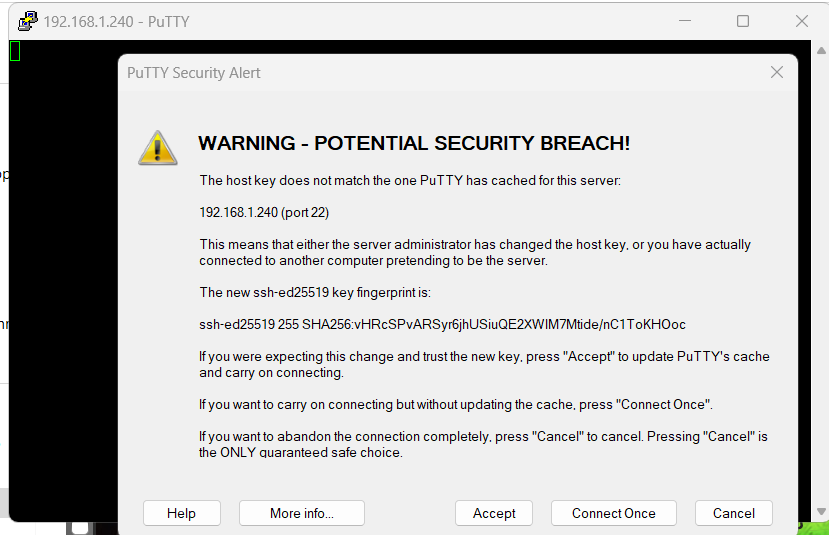
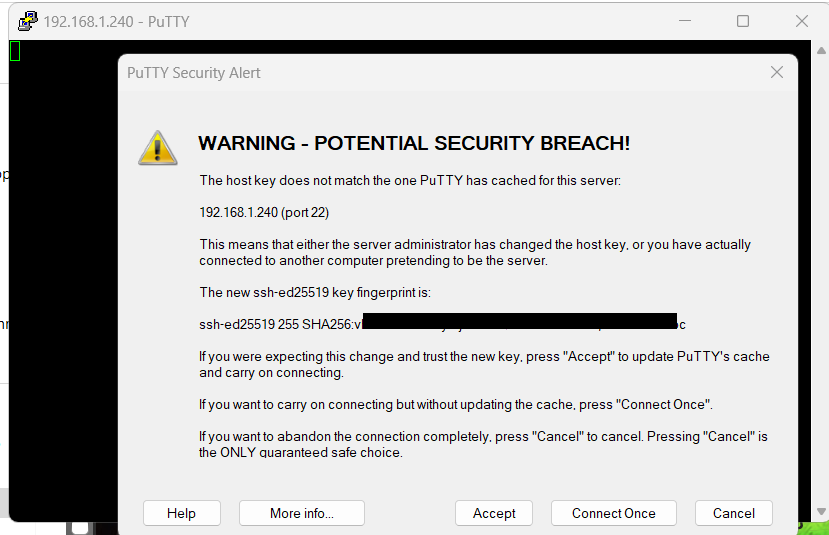
update readme with pi model

Changed region(s): [[0.4222, 0.5682, 0.8142, 0.628]]

diff --git a/README.md b/README.md
@@ -6,6 +6,13 @@ Ubuntu's netplan makes this extremely difficult
 
 ![](images/2026-05-30_07_28_IMG_20260530_072810%20Raspberry%20Pi%204B%20Ubuntu%2024%20Server%20LTS%20Ethernet%20and%20WiFi.jpg)
 
+## Materials
+
+- Fast SD Card
+- SD card burner
+- Raspberry Pi 4B
+- WiFi router
+
 # Raspberry Pi Imager
 
 https://www.raspberrypi.com/software/
